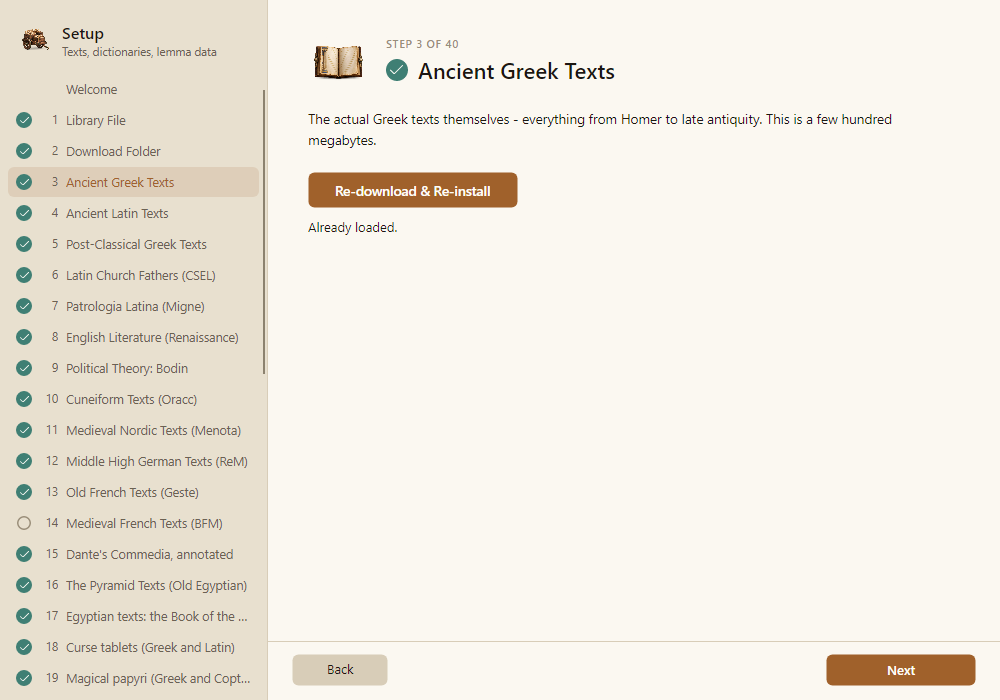
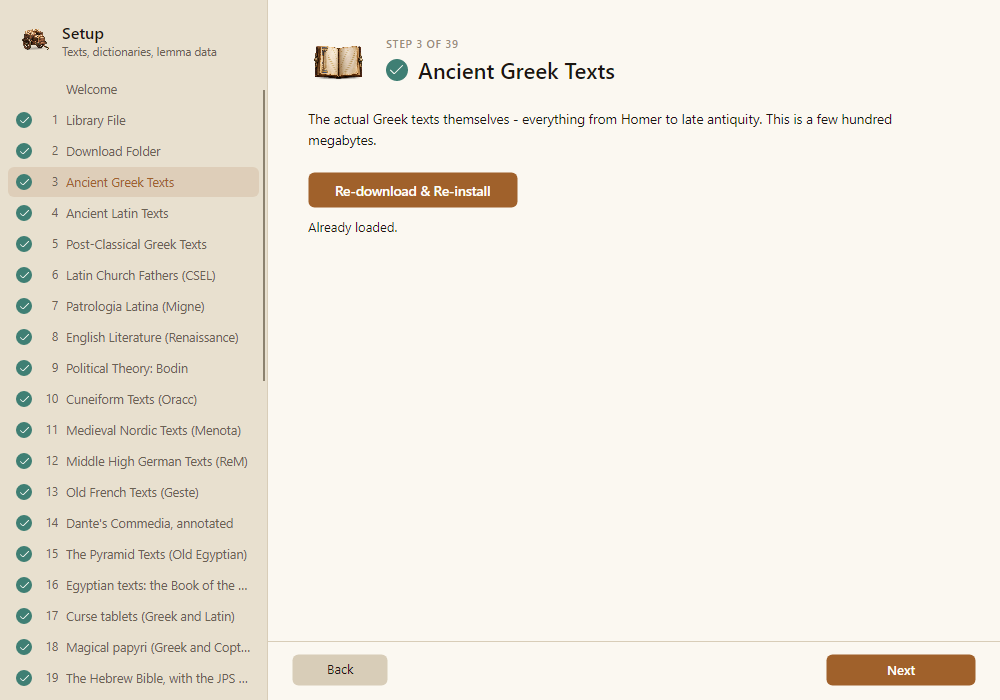
Take the Medieval French Texts (BFM) step out of Setup
The corpus is published as 500 separate deposits, so the step made 500
downloads one after another and took far too long. It waits for another
way of providing the texts.

The step moves, unchanged, from SetupDataSourceCatalog.Build - the only
list either setup window shows - to BuildWithheld, which nothing in the
app calls. Going through every step no longer fetches it, and no step is
left unfinished on its account. The importer, the embedded catalogue,
tools/BfmCatalogue and the bfm collection key are untouched.

A library that already installed the texts keeps them: nothing removes
editions by collection, the collection keeps its name, and the search,
sidebar and default-collection lists read the collections a library holds.
A new Mac test seeds one BFM text and checks all of that, and that the
withheld step still builds and reads as installed.

Help and the README say Setup no longer offers it; the README keeps the
licence row for libraries that have the texts. The Guided Setup picture
in docs/images is retaken without the step, against the real library
opened read-only.

diff --git a/src/ClassicaCodex.UI/SetupDataSourceCatalog.cs b/src/ClassicaCodex.UI/SetupDataSourceCatalog.cs
@@ -971,61 +971,9 @@ public static class SetupDataSourceCatalog
                     await editionRepo.CountByCollectionAsync(CollectionKeys.Geste) > 0
             },
 
-            new SetupDataSource
-            {
-                Title = "Medieval French Texts (BFM)",
-                RepoUrl = BfmCatalogue.HomeUrl,
-                DisplayNote = $"{BfmCatalogue.Count} texts, {BfmCatalogue.TotalBytes / 1048576.0:F0} MB over " +
-                              "many small downloads",
-                DefaultDestination = Path.Combine(dataRoot, "bfm"),
-                FetchMode = SetupFetchMode.SelfManaged,
-
-                Links =
-                {
-                    new SetupLink
-                    {
-                        Text = "About the Base de Français Médiéval",
-                        Url = BfmCatalogue.HomeUrl
-                    }
-                },
-
-                PlainLanguageDescription =
-                    "French as it was written between the ninth century and the fifteenth - the Chanson "
-                    + "de Roland, all four of Chrétien de Troyes's romances, Aucassin et Nicolette, the "
-                    + "Queste del saint Graal, the Roman de Renart, Marie de France, Rutebeuf, Villon, "
-                    + "and 281 fabliaux. 500 texts from the Base de Français Médiéval at the ENS de "
-                    + "Lyon, about 220 MB, fetched one text at a time because that is how they are "
-                    + "published. "
-                    + "Most of them arrive twice: once letter for letter as the scribe wrote it, "
-                    + "abbreviations unexpanded and words run together where the manuscript runs them "
-                    + "together, and once in the reading a modern editor prints. The edition dropdown "
-                    + "switches between them. "
-                    + "Verse is cited by line and prose by section. Twenty-three of the texts carry "
-                    + "their own word-by-word annotation, so Word Study answers on those with no "
-                    + "further download. "
-                    + "Six texts are marked by the corpus as not redistributable and are skipped; the "
-                    + "step says how many when it finishes. The licences differ by text - most are "
-                    + "Licence Ouverte, the fabliaux and a few others are non-commercial share-alike - "
-                    + "and the README lists which.",
-
-                RunIngest = async (root, progress, ct) =>
-                {
-                    var service = new BfmIngestService();
-                    var outcome = await service.IngestAsync(root, progress, ct);
-
-                    if (service.TextsInstalled > 0)
-                    {
-                        await editionRepo.StampCollectionAsync(root, CollectionKeys.Bfm, ct);
-                    }
-
-                    return outcome;
-                },
-
-                CheckComplete = async () =>
-                    await editionRepo.IsCollectionCompleteAsync(CollectionKeys.Bfm),
-                CheckHasSomeContent = async () =>
-                    await editionRepo.CountByCollectionAsync(CollectionKeys.Bfm) > 0
-            },
+            // Medieval French Texts (BFM) stood here, between Geste and Dante.
+            // It is withheld rather than removed - see BuildWithheld - and
+            // bringing it back is moving that entry back to this spot.
 
             new SetupDataSource
             {
@@ -2092,6 +2040,92 @@ public static class SetupDataSourceCatalog
                     (await catmusRepo.GetIngestedShardsAsync()).Count >= CatmusCatalogue.Shards.Count,
                 CheckHasSomeContent = async () => await catmusRepo.HasDataAsync()
             }
+        };
+    }
+
+    /// <summary>
+    /// Steps that are kept, compiled and tested but not offered. Neither setup
+    /// window lists them, because both present <see cref="Build"/> and only
+    /// that, so going through every step does not fetch them and their absence
+    /// leaves no step unfinished. Nothing in the application calls this; it is
+    /// here so that a step taken out of Setup stays in working order until it
+    /// comes back, rather than rotting in a commit nobody reads.
+    ///
+    /// Medieval French Texts (BFM) was taken out on 2026-11-26 because it took
+    /// far too long to download. The corpus is published as 500 separate
+    /// deposits, each with its own DOI, so the step makes 500 requests one
+    /// after another, and that is the whole of its time. It waits for another
+    /// way of providing the texts. Its importer, BfmIngestService, and the
+    /// embedded catalogue it reads are unchanged.
+    ///
+    /// A library that already installed it keeps every text and keeps working:
+    /// nothing removes editions by collection; the editions are still stamped
+    /// with <see cref="CollectionKeys.Bfm"/>, which <see cref="DescribeCollection"/>
+    /// still names; and the collection lists in search, the library sidebar and
+    /// the default-collection setting are built from the collections a library
+    /// holds rather than from this catalogue, so they list it as before.
+    /// </summary>
+    public static List<SetupDataSource> BuildWithheld(EditionRepository editionRepo)
+    {
+        var dataRoot = DataRoot;
+
+        return new List<SetupDataSource>
+        {
+            new SetupDataSource
+            {
+                Title = "Medieval French Texts (BFM)",
+                RepoUrl = BfmCatalogue.HomeUrl,
+                DisplayNote = $"{BfmCatalogue.Count} texts, {BfmCatalogue.TotalBytes / 1048576.0:F0} MB over " +
+                              "many small downloads",
+                DefaultDestination = Path.Combine(dataRoot, "bfm"),
+                FetchMode = SetupFetchMode.SelfManaged,
+
+                Links =
+                {
+                    new SetupLink
+                    {
+                        Text = "About the Base de Français Médiéval",
+                        Url = BfmCatalogue.HomeUrl
+                    }
+                },
+
+                PlainLanguageDescription =
+                    "French as it was written between the ninth century and the fifteenth - the Chanson "
+                    + "de Roland, all four of Chrétien de Troyes's romances, Aucassin et Nicolette, the "
+                    + "Queste del saint Graal, the Roman de Renart, Marie de France, Rutebeuf, Villon, "
+                    + "and 281 fabliaux. 500 texts from the Base de Français Médiéval at the ENS de "
+                    + "Lyon, about 220 MB, fetched one text at a time because that is how they are "
+                    + "published. "
+                    + "Most of them arrive twice: once letter for letter as the scribe wrote it, "
+                    + "abbreviations unexpanded and words run together where the manuscript runs them "
+                    + "together, and once in the reading a modern editor prints. The edition dropdown "
+                    + "switches between them. "
+                    + "Verse is cited by line and prose by section. Twenty-three of the texts carry "
+                    + "their own word-by-word annotation, so Word Study answers on those with no "
+                    + "further download. "
+                    + "Six texts are marked by the corpus as not redistributable and are skipped; the "
+                    + "step says how many when it finishes. The licences differ by text - most are "
+                    + "Licence Ouverte, the fabliaux and a few others are non-commercial share-alike - "
+                    + "and the README lists which.",
+
+                RunIngest = async (root, progress, ct) =>
+                {
+                    var service = new BfmIngestService();
+                    var outcome = await service.IngestAsync(root, progress, ct);
+
+                    if (service.TextsInstalled > 0)
+                    {
+                        await editionRepo.StampCollectionAsync(root, CollectionKeys.Bfm, ct);
+                    }
+
+                    return outcome;
+                },
+
+                CheckComplete = async () =>
+                    await editionRepo.IsCollectionCompleteAsync(CollectionKeys.Bfm),
+                CheckHasSomeContent = async () =>
+                    await editionRepo.CountByCollectionAsync(CollectionKeys.Bfm) > 0
+            },
         };
     }
 }

diff --git a/tests/ClassicaCodex.Mac.Tests/Features/SetupTests.cs b/tests/ClassicaCodex.Mac.Tests/Features/SetupTests.cs
@@ -2,6 +2,7 @@ using Avalonia.Controls;
 using Avalonia.Headless.XUnit;
 using Avalonia.Styling;
 using Avalonia.VisualTree;
+using ClassicaCodex.Core.Bfm;
 using ClassicaCodex.Data;
 using ClassicaCodex.Data.Repositories;
 using ClassicaCodex.Ingestion;
@@ -574,6 +575,79 @@ public class SetupTests
         DivPaths = divs.ToList(),
         Section = "Alcuin"
     };
+
+    /// <summary>
+    /// The Medieval French Texts (BFM) step is withheld from setup, because its
+    /// 500 separate downloads took far too long. Neither window lists it, so
+    /// going through every step never starts them and no step is left waiting
+    /// on them. A library that installed the texts before keeps them, under
+    /// their collection's name, and the step itself still builds - and reads as
+    /// installed for that library - for when it comes back.
+    /// </summary>
+    [AvaloniaFact]
+    public async Task Medieval_French_is_withheld_from_setup_and_a_library_that_has_it_keeps_it()
+    {
+        using var scratch = new Scratch();
+        await scratch.FreshLibraryAsync();
+
+        // One BFM text, as the step left it while it was still offered.
+        const string bfm = SetupDataSourceCatalog.CollectionKeys.Bfm;
+        var authorId = await new AuthorRepository().UpsertAsync(new Models.Author
+        {
+            CtsUrn = "urn:bfm:author:marie-de-france", Name = "Marie de France", Namespace = "bfm", Language = "fro"
+        });
+        var workId = await new WorkRepository().UpsertAsync(new Models.Work
+        {
+            AuthorId = authorId, CtsUrn = "urn:bfm:lais", Title = "Lais"
+        });
+        var editionId = await new EditionRepository().UpsertAsync(new Models.Edition
+        {
+            WorkId = workId, CtsUrn = "urn:bfm:lais:dipl", Kind = Models.EditionKind.Original, Language = "fro",
+            SourcePath = Path.Combine(scratch.Root, "data", "bfm", "lais.xml"), Collection = bfm
+        });
+        await new TextNodeRepository().BulkInsertAsync(new List<Models.TextNode>
+        {
+            new() { EditionId = editionId, CitationRef = "1", SortOrder = 0, Text = "Ki Deus ad duné escience", NodeKind = Models.TextNodeKinds.Line }
+        });
+        await new EditionRepository().MarkCollectionCompleteAsync(bfm);
+
+        bool IsBfm(SetupDataSource s) =>
+            s.RepoUrl == BfmCatalogue.HomeUrl || s.Title.Contains("BFM", StringComparison.Ordinal);
+
+        var main = await scratch.MainAsync();
+        var guided = new GuidedSetupWindow(main);
+        guided.Show(main);
+        await guided.RefreshAllCompletionAsync();
+
+        Assert.DoesNotContain(guided.Sources, IsBfm);
+        Assert.Equal(
+            SetupDataSourceCatalog.Build(new AuthorRepository(), new LemmaRepository(), new DefinitionRepository(),
+                new ArtifactRepository(), new EditionRepository()).Select(s => s.Title),
+            guided.Sources.Select(s => s.Title));
+        await CloseAsync(guided);
+
+        var advanced = new AdvancedSetupWindow(main);
+        advanced.Show(main);
+        await Screens.Settle(10);
+        Assert.DoesNotContain(Enumerable.Range(0, advanced.RowCount).Select(advanced.RowTitle),
+            t => t.Contains("BFM", StringComparison.Ordinal));
+        advanced.Close();
+
+        // The library still has the text, and still names its collection.
+        Assert.Contains(bfm, await new EditionRepository().GetCollectionsAsync());
+        Assert.Equal("Medieval French (BFM)", SetupDataSourceCatalog.DescribeCollection(bfm));
+        await Screens.Settle(4);
+        Assert.Contains(main.LibraryWorks, w => w.Title == "Lais");
+
+        // Kept for later: the step still builds, with the importer behind it.
+        var withheld = Assert.Single(SetupDataSourceCatalog.BuildWithheld(new EditionRepository()), IsBfm);
+        Assert.Equal(SetupFetchMode.SelfManaged, withheld.FetchMode);
+        Assert.NotNull(withheld.RunIngest);
+        Assert.False(string.IsNullOrWhiteSpace(withheld.PlainLanguageDescription));
+        Assert.True(await withheld.CheckComplete());
+
+        main.Close();
+    }
 
     /// <summary>One work of AM 677 4to, one line long, as a Menota import leaves it.</summary>
     private static async Task MenotaSourceAsync(string workUrn, string citationRef)

diff --git a/src/ClassicaCodex.UI/HelpForm.cs b/src/ClassicaCodex.UI/HelpForm.cs
@@ -587,7 +587,7 @@ One file, several works
 """),
 
         ("Medieval French", """
-Five hundred texts of French as it was written between the ninth century and the fifteenth, from the Base de Français Médiéval at the ENS de Lyon. The *Chanson de Roland*, all four of Chrétien de Troyes's romances, *Aucassin et Nicolette*, the *Queste del saint Graal*, the *Roman de Renart*, Marie de France, Rutebeuf, Villon, and 281 fabliaux. Install it from the setup wizard; it is about 220 MB and arrives one text at a time, because that is how the corpus is published.
+Five hundred texts of French as it was written between the ninth century and the fifteenth, from the Base de Français Médiéval at the ENS de Lyon. The *Chanson de Roland*, all four of Chrétien de Troyes's romances, *Aucassin et Nicolette*, the *Queste del saint Graal*, the *Roman de Renart*, Marie de France, Rutebeuf, Villon, and 281 fabliaux. The setup wizard no longer offers it. The corpus is published one text at a time, and 500 separate downloads took far too long, so the step is withheld until there is a better way to provide the texts. A library that installed them before keeps every one, and what follows still describes them.
 
 Two readings
    Most of these texts arrive twice, and the edition dropdown switches between them.

diff --git a/src/ClassicaCodex.Mac/Features/Help/HelpTopics.cs b/src/ClassicaCodex.Mac/Features/Help/HelpTopics.cs
@@ -636,7 +636,7 @@ One file, several works
 """),
 
         ("Medieval French", """
-Five hundred texts of French as it was written between the ninth century and the fifteenth, from the Base de Français Médiéval at the ENS de Lyon. The *Chanson de Roland*, all four of Chrétien de Troyes's romances, *Aucassin et Nicolette*, the *Queste del saint Graal*, the *Roman de Renart*, Marie de France, Rutebeuf, Villon, and 281 fabliaux. Install it from Setup; it is about 220 MB and arrives one text at a time, because that is how the corpus is published.
+Five hundred texts of French as it was written between the ninth century and the fifteenth, from the Base de Français Médiéval at the ENS de Lyon. The *Chanson de Roland*, all four of Chrétien de Troyes's romances, *Aucassin et Nicolette*, the *Queste del saint Graal*, the *Roman de Renart*, Marie de France, Rutebeuf, Villon, and 281 fabliaux. Setup no longer offers it. The corpus is published one text at a time, and 500 separate downloads took far too long, so the step is withheld until there is a better way to provide the texts. A library that installed them before keeps every one, and what follows still describes them.
 
 Two readings
    Most of these texts arrive twice, and the edition menu switches between them.

diff --git a/README.md b/README.md
@@ -1,6 +1,6 @@
 # Classica Codex
 
-A desktop reader and research tool for the [Perseus Digital Library](http://www.perseus.tufts.edu/) — the Greek and Latin classics (plus optional Post-Classical Greek and the Renaissance authors who reworked the classics in English), their translations, dictionaries, and the linguistic data that makes searching them work properly. Also, Menota documents can be manually added, and the Reference Corpus of Middle High German, the Old French chansons de geste, 500 texts of medieval French from the BFM, Dante's annotated Commedia, the Egyptian Pyramid Texts, the Thesaurus Linguae Aegyptiae's Egyptian texts, some 840 Greek and Latin curse tablets and 500 Greek and Coptic magical papyri each install from the setup wizard. All of them are new and still a bit experimental. Alongside them is **Medieval Hands**: 313 manuscripts from CATMuS-Medieval, each line photographed beside its transcription, in its own window rather than the reading library.
+A desktop reader and research tool for the [Perseus Digital Library](http://www.perseus.tufts.edu/) — the Greek and Latin classics (plus optional Post-Classical Greek and the Renaissance authors who reworked the classics in English), their translations, dictionaries, and the linguistic data that makes searching them work properly. Also, Menota documents can be manually added, and the Reference Corpus of Middle High German, the Old French chansons de geste, Dante's annotated Commedia, the Egyptian Pyramid Texts, the Thesaurus Linguae Aegyptiae's Egyptian texts, some 840 Greek and Latin curse tablets and 500 Greek and Coptic magical papyri each install from the setup wizard. All of them are new and still a bit experimental. Alongside them is **Medieval Hands**: 313 manuscripts from CATMuS-Medieval, each line photographed beside its transcription, in its own window rather than the reading library.
 
 Everything is fetched once and kept in a database on your own machine, so after
 setup the reading, the searching and the research all happen locally — no tab,
@@ -418,7 +418,7 @@ Classica Codex doesn't own or bundle any of the texts, dictionaries, or linguist
 | [PerseusDL/canonical-pdlpsci](https://github.com/PerseusDL/canonical-pdlpsci) | Jean Bodin's *Six Books of the Commonwealth* in French, Latin and English, optional | CC BY-SA 4.0 |
 | [Medieval Nordic Text Archive](https://www.menota.org) | Old Norse, Icelandic, Swedish and Danish manuscript transcriptions, optional — downloaded individually from Menota's catalogue, one file per manuscript, since there's no archive to fetch | CC BY-SA 4.0 |
 | [Reference Corpus of Middle High German](https://linguistics.rub.de/rem/) (ReM) | German written between 1050 and 1350, transcribed from the manuscripts — 406 texts, optional. One 27 MB download from Zenodo. Each text arrives twice, spelled as the scribe wrote it and in normalised form, and you switch between them in the edition dropdown. A second, larger download carries ReM's own annotation — word-form → headword, part of speech and grammar — so this is the one collection that brings its own lemma data instead of needing a separate project's | CC BY-SA 4.0 |
-| [Base de Français Médiéval](http://bfm.ens-lyon.fr) (BFM, ENS de Lyon / UMR 5317 IHRIM) | French written between the ninth century and the fifteenth — the *Chanson de Roland*, all four of Chrétien de Troyes's romances, *Aucassin et Nicolette*, the *Queste del saint Graal*, the *Roman de Renart*, Marie de France, Rutebeuf, Villon, and 281 fabliaux. 500 texts, optional, about 220 MB fetched one text at a time because that is how they are published. Most arrive twice, letter for letter as the scribe wrote them — abbreviations unexpanded, words run together where the manuscript runs them together — and in a modern editor's reading. 23 carry their own word-by-word annotation, so Word Study answers on those with no further download. Six texts the corpus marks as not redistributable are skipped | **Two licences, by text.** 211 are Licence Ouverte 2.0 (attribution only); the 281 fabliaux and 8 others are **CC BY-NC-SA** — noncommercial and share-alike — and among those 8 are the *Serments de Strasbourg* and the *Séquence de sainte Eulalie*, the two oldest texts in French |
+| [Base de Français Médiéval](http://bfm.ens-lyon.fr) (BFM, ENS de Lyon / UMR 5317 IHRIM) | French written between the ninth century and the fifteenth — the *Chanson de Roland*, all four of Chrétien de Troyes's romances, *Aucassin et Nicolette*, the *Queste del saint Graal*, the *Roman de Renart*, Marie de France, Rutebeuf, Villon, and 281 fabliaux. 500 texts, about 220 MB fetched one text at a time because that is how they are published. **No longer offered by setup:** 500 separate downloads took far too long, so the step is withheld until there is a better way to provide the texts. A library that installed them keeps them, and the rest of this row describes them. Most arrive twice, letter for letter as the scribe wrote them — abbreviations unexpanded, words run together where the manuscript runs them together — and in a modern editor's reading. 23 carry their own word-by-word annotation, so Word Study answers on those with no further download. Six texts the corpus marks as not redistributable are skipped | **Two licences, by text.** 211 are Licence Ouverte 2.0 (attribution only); the 281 fabliaux and 8 others are **CC BY-NC-SA** — noncommercial and share-alike — and among those 8 are the *Serments de Strasbourg* and the *Séquence de sainte Eulalie*, the two oldest texts in French |
 | [Geste](https://github.com/Jean-Baptiste-Camps/Geste) (Jean-Baptiste Camps, École nationale des chartes) | The Old French chansons de geste — Floovant, Otinel in five manuscripts, Garin le Lorrain in ten, Aspremont, Huon de Bordeaux — 33 texts in Old French, Anglo-Norman and Walloon, optional. One 6 MB download. Nineteen arrive twice, letter for letter as the scribe wrote them and in a modern reading, and every word carries its dictionary headword and grammar, so Word Study works with no second download | Texts: CC Public Domain Mark 1.0; encoding and annotation: CC BY-SA 4.0 (declared in each TEI header rather than in a licence file) |
 | [UD_Italian-Old](https://github.com/UniversalDependencies/UD_Italian-Old) | Dante's *Commedia* — all 14,233 lines, every word parsed and mapped to its headword, optional. 2.4 MB. Cited by canto and line, so a reference here resolves in any printed edition. **A critical edition (Petrocchi), not a manuscript transcription** — there is no scribe's spelling and no second reading, unlike the Norse, German and French collections. It is one poem rather than a corpus because the large Old Italian corpora, OVI and Corpus Taurinense, cannot be downloaded at all | CC BY-SA 4.0 |
 | [UD_Egyptian-PC](https://github.com/UniversalDependencies/UD_Egyptian-PC) | The **Pyramid Texts** — 519 spells in 3,089 passages from the burial chambers of six pyramids at Saqqara, c. 2350–2200 BC, optional. 1 MB. Each pyramid arrives twice, in hieroglyphs and in Egyptological transliteration, and every word is parsed and carries its headword, so Word Study answers with no second download. Cited by spell and section (Pyr. 23.16a), Sethe's numbering. **No translation** — the treebank has none and Faulkner's and Allen's are both in copyright. About one passage in five shows a box for a sign, because Unicode added 4,000 hieroglyphs in 2023 and no Windows font has them yet | CC BY-SA 4.0 |
@@ -441,7 +441,7 @@ Classica Codex doesn't own or bundle any of the texts, dictionaries, or linguist
 | [ClassicaCodex/ai-translations](https://github.com/ClassicaCodex/ai-translations) | **Classica Codex AI translations**, optional, about 8 MB: English for about 15,900 lines from 446 works in twelve languages that have no published English — the passages the Atlas of Ancient Myth, Magic in the Ancient Texts and a study of demons and angels cite. Made by Claude, checked against the original by a second AI (Codex), **reviewed by no specialist**, and labelled "trans. Claude (AI-generated)" wherever they appear. Each is filed line for line beside a text from one of the collections above, so it arrives only if that collection is installed; the rest are skipped and noted | Each its source's licence: CC BY-SA 4.0, or CC BY 4.0 for those made from papyri.info, the Online Critical Pseudepigrapha and the Otzar Midrashim |
 | [CATMuS-Medieval](https://huggingface.co/datasets/CATMuS/medieval) | 194,808 lines from 313 medieval manuscripts, 7th–16th century, each photographed and transcribed beside itself — for the Medieval Hands window, optional. The transcriptions are a few megabytes and come from the wizard; the line photographs are 24.7 GB and are fetched one manuscript at a time, each one's size shown first. Not part of the reading library: CATMuS shuffles its lines and records no page numbers, so a manuscript here is a set of specimens rather than something to read through | Mostly CC BY 4.0, but **not all of it**: the Towards General Castilian HTR manuscripts are CC BY-NC-SA 4.0, and the window says which is which. The photographs are a third case again — they stay under the terms of the library holding the manuscript, which vary and aren't recorded in the dataset |
 
-The Greek lemma data is not the only entry above marked **noncommercial** — part of CATMuS is too, and so are 289 of the 500 BFM texts. The Medieval Hands window names the licence beside whichever manuscript is selected rather than leaving it to a table; the BFM texts carry theirs per text, as the table above says. The Greek lemma data is the one that constrains the project as a whole — it can't be sold, and because it's woven into the search and Word Study features, that restriction carries over to the whole project as distributed. Which is fine: Classica Codex is a free personal tool, and it's going to stay that way regardless. (WordNet's license, despite doing a similar job for English, doesn't carry the same restriction — it's permissive and doesn't add a second constraint on top of the Greek lemma data's.)
+The Greek lemma data is not the only entry above marked **noncommercial** — part of CATMuS is too, and so are 289 of the 500 BFM texts, in a library that installed them before setup stopped offering them. The Medieval Hands window names the licence beside whichever manuscript is selected rather than leaving it to a table; the BFM texts carry theirs per text, as the table above says. The Greek lemma data is the one that constrains the project as a whole — it can't be sold, and because it's woven into the search and Word Study features, that restriction carries over to the whole project as distributed. Which is fine: Classica Codex is a free personal tool, and it's going to stay that way regardless. (WordNet's license, despite doing a similar job for English, doesn't carry the same restriction — it's permissive and doesn't add a second constraint on top of the Greek lemma data's.)
 
 The AI features are a separate case from all of the above: not a bundled dataset, just an optional connection to a third-party API (Anthropic's Claude or Google's Gemini) that you supply your own key for. Translation is the obvious one, but the research side uses it too — proposing projects, challenging a hypothesis, drafting a synthesis, glossing a word, reading a passage against its parallels. All of it is off until you enter a key, every send is a button you press, and unless you turn the confirmation off each one tells you what is about to leave. Project discovery also queries Crossref (api.crossref.org) for publication metadata, sending only the search terms shown in the editable box. None of it is required to use the app.
 
